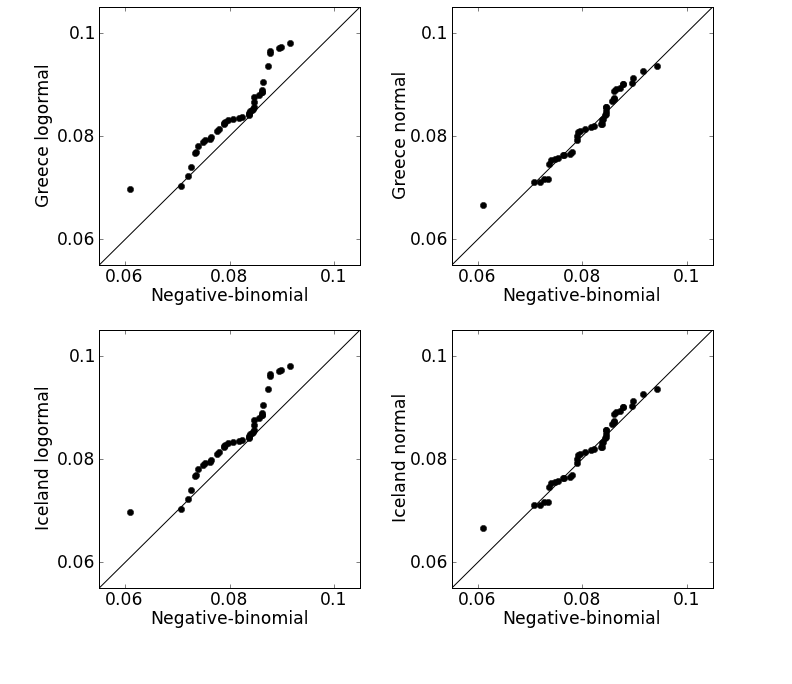
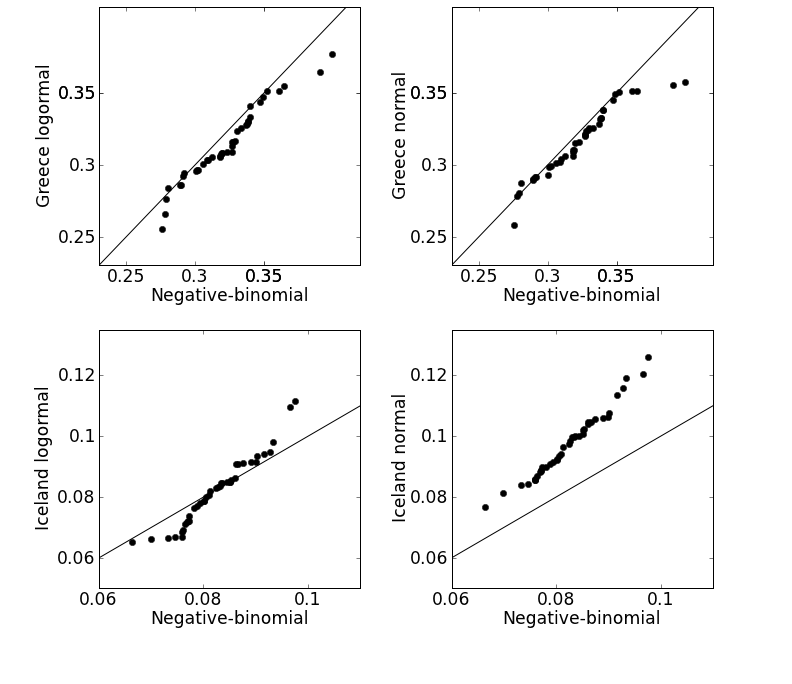
bug: csv data prev wrong, prev fruit fig wrong

diff --git a/book/graphics_fruit_isl_rt_type.py b/book/graphics_fruit_isl_rt_type.py
@@ -120,9 +120,9 @@ for i,c in enumerate(['GRC', 'ISL']): #in ['we_model', 'we_log_model', 'we_norm_
     pl.subplot(2,2,i+1)
     pl.plot(pl.sort(pl.array(GRC_data['0'])[ix]), pl.sort(pl.array(GRC_data[str(i+1)])[ix]), 'ko')
     pl.plot([-1,1],[-1,1],'k-')
-    pl.yticks([.006, .008, .010], [.06, .08, .10])
-    pl.xticks([.006, .008, .010], [.06, .08, .10])
-    pl.axis([.0055, .0105, .0055, .0105])
+    pl.yticks([.025, .03, .035, .035], [.25, .3, .35, .35])
+    pl.xticks([.025, .03, .035, .035], [.25, .3, .35, .35])
+    pl.axis([.023, .042, .023, .041])
     pl.xlabel('Negative-binomial')
     if i + 1 == 1: pl.ylabel('Greece logormal')
     elif i + 1 == 2: pl.ylabel('Greece normal')
@@ -130,9 +130,9 @@ for i,c in enumerate(['GRC', 'ISL']): #in ['we_model', 'we_log_model', 'we_norm_
     pl.subplot(2,2,i+3)
     pl.plot(pl.sort(pl.array(ISL_data['0'])[ix]), pl.sort(pl.array(ISL_data[str(i+1)])[ix]), 'ko')
     pl.plot([-1,1],[-1,1],'k-')
-    pl.yticks([.006, .008, .010], [.06, .08, .10])
-    pl.xticks([.006, .008, .010], [.06, .08, .10])
-    pl.axis([.0055, .0105, .0055, .0105])
+    pl.yticks([.006, .008, .010, .012], [.06, .08, .10, .12])
+    pl.xticks([.006, .008, .010, .012], [.06, .08, .10, .12])
+    pl.axis([.006, .011, .005, .0135])
     pl.xlabel('Negative-binomial')
     if i + 1 == 1: pl.ylabel('Iceland logormal')
     elif i + 1 == 2: pl.ylabel('Iceland normal')
